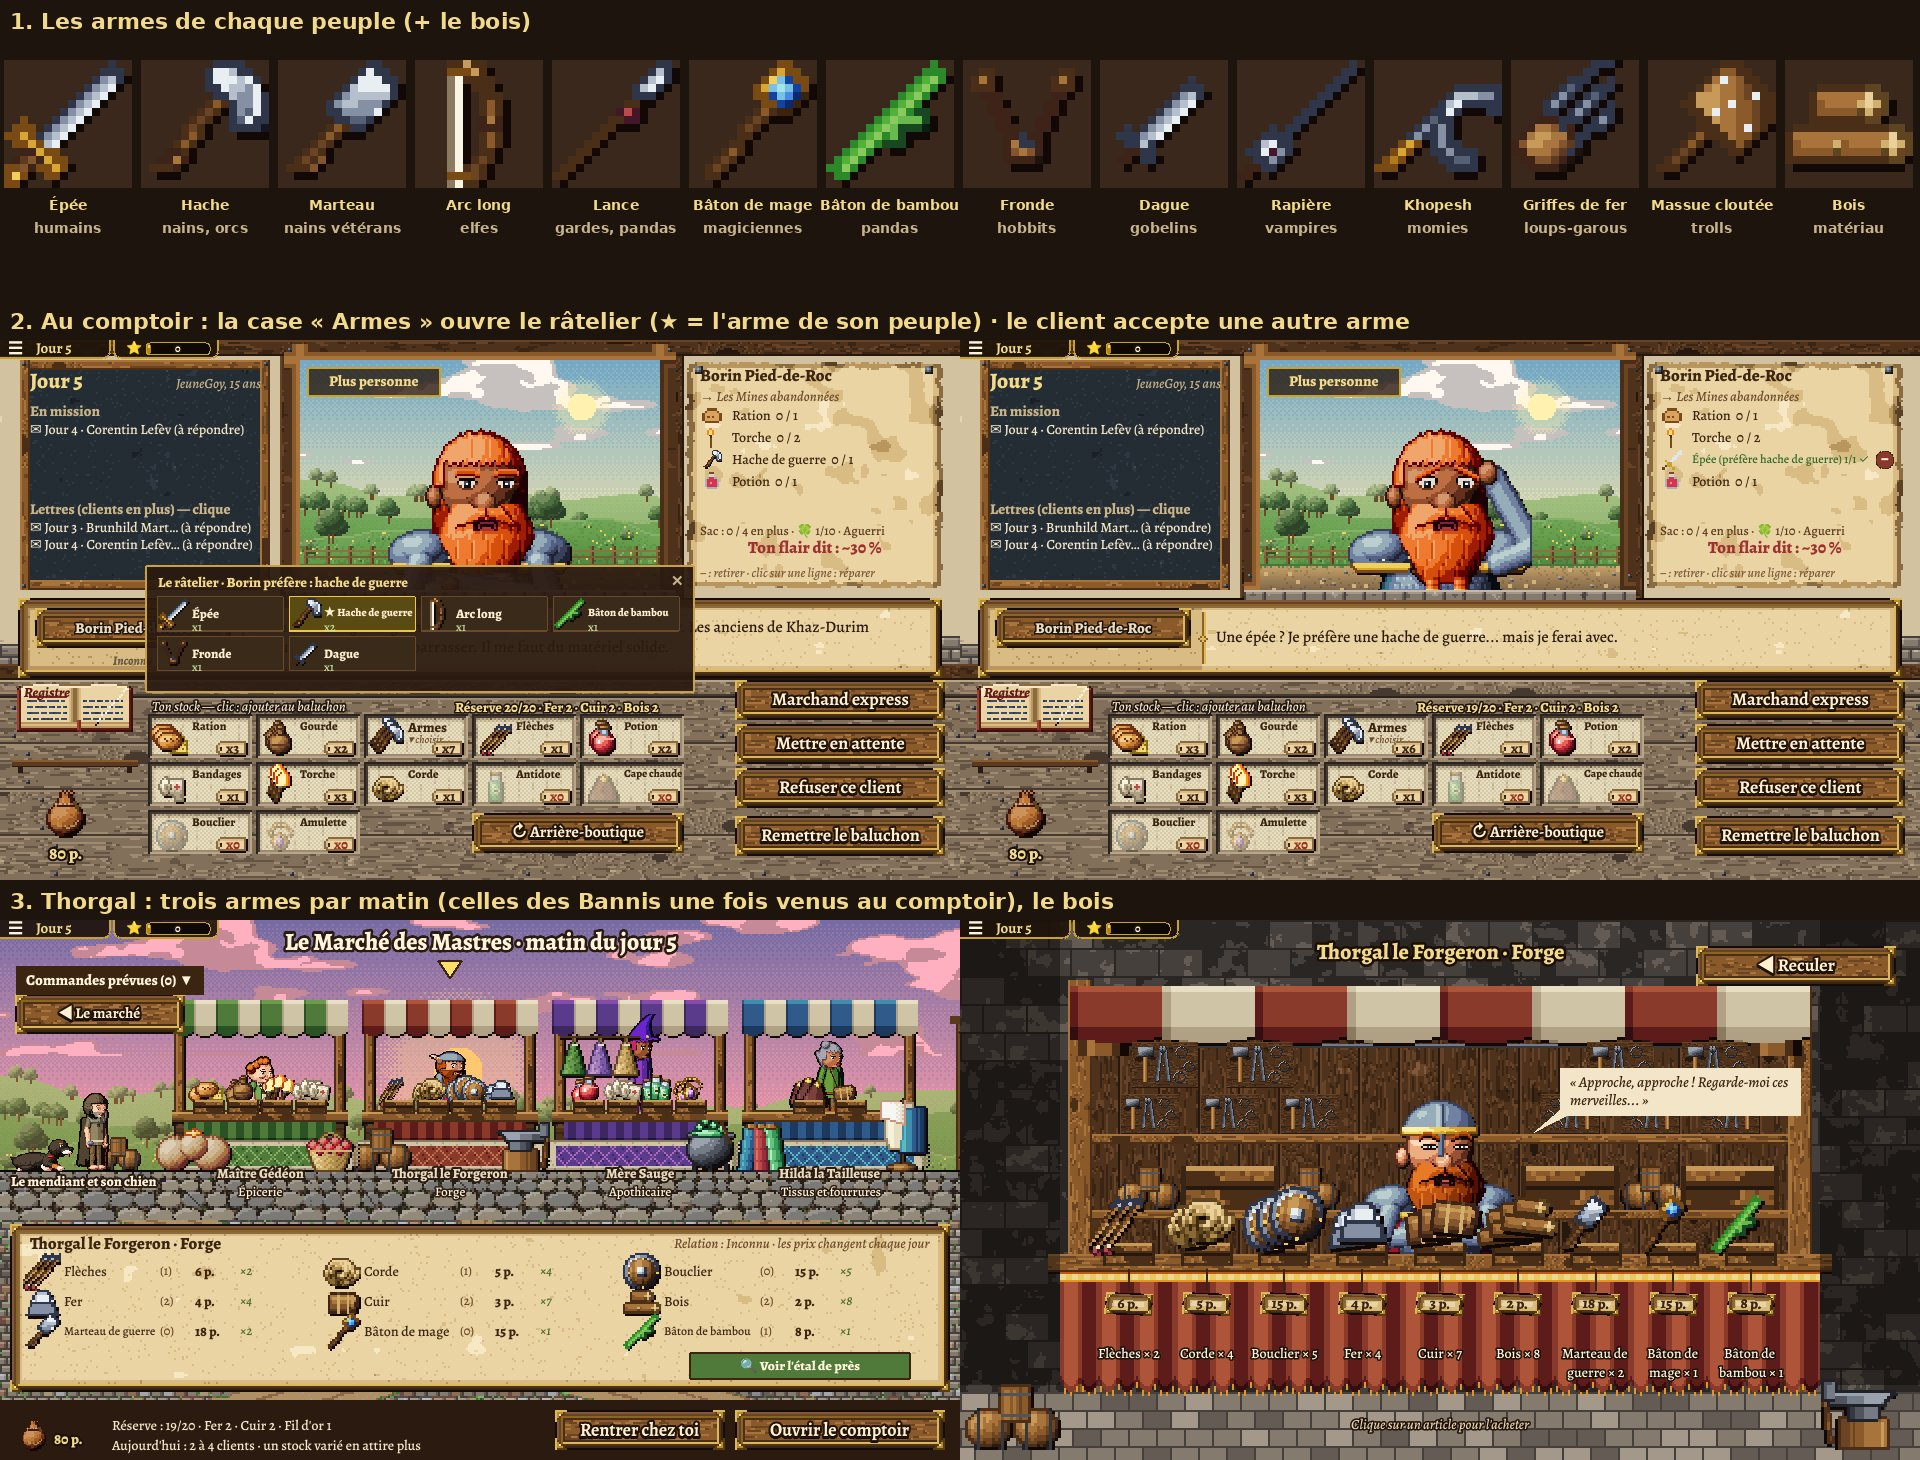
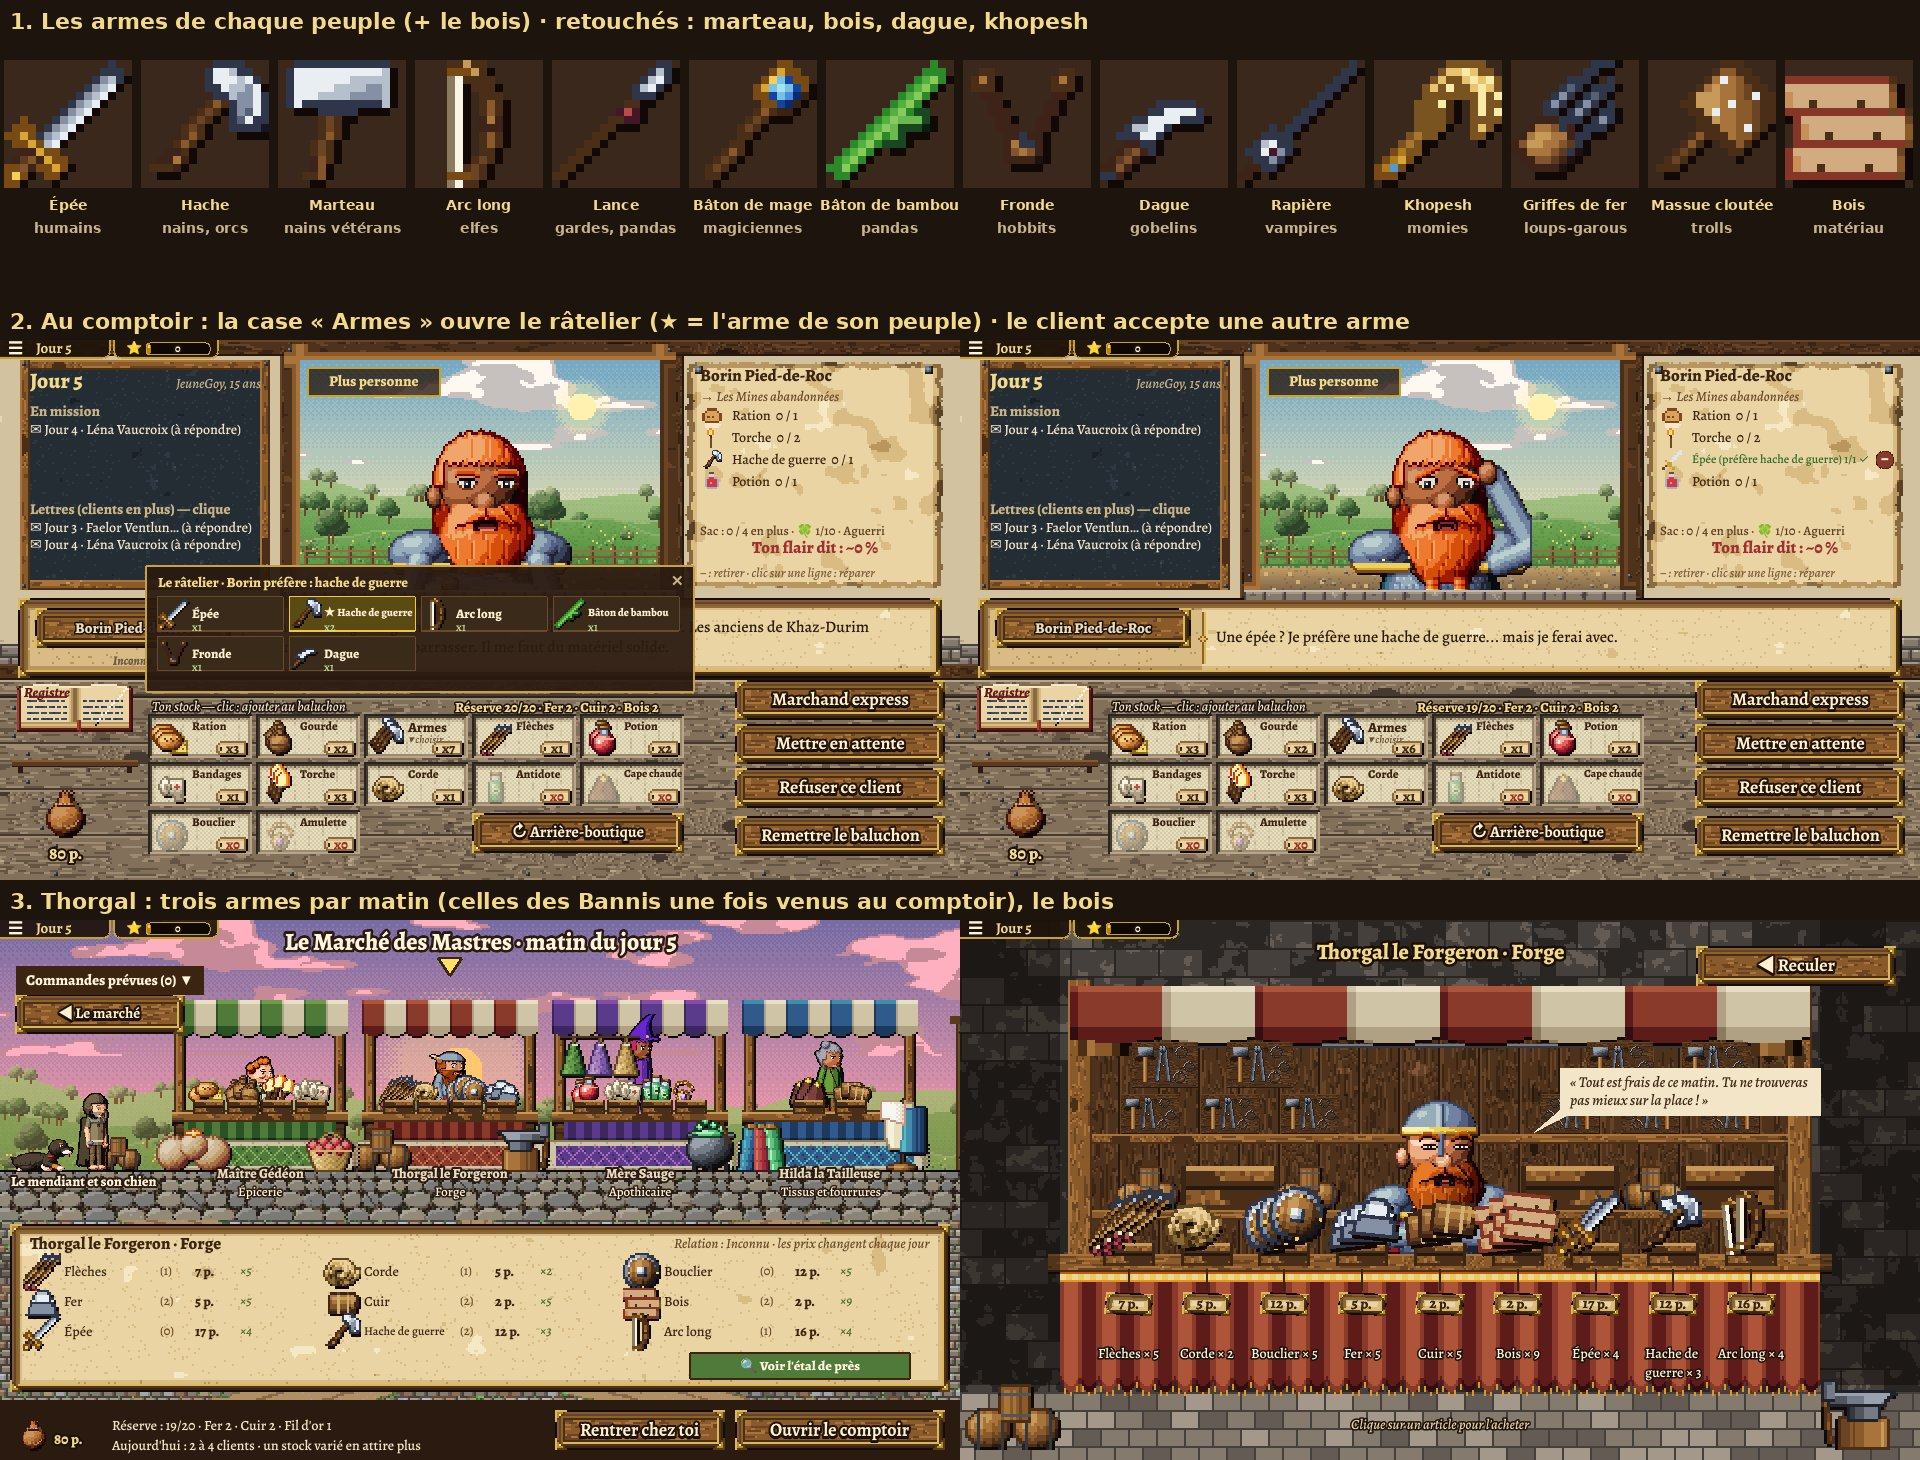
10a retouches validées : marteau en T, planches de bois, dague crochue, khopesh d'après les épées-faucilles des pharaons (bronze doré, poignée à bandes de lapis)
Claude-Session: https://claude.ai/code/session_018kbaP56NxxNMUzmj9EfKBC

diff --git a/src/objetsHD.js b/src/objetsHD.js
@@ -101,12 +101,13 @@ const DESSINS_OBJETS = {
     for (let x = 2; x <= 14; x++) t.poser(x, 11, 'mure', 2);
   },
   // --- (v0.63) Les armes de chaque peuple, et le bois ---
-  // Trois bûches de bois empilées, leurs cernes au bout
+  // Trois planches de bois clair empilées, le fil du bois et les cernes au bout
   bois(t) {
-    for (const [x, y] of [[5, 11], [11, 11], [8, 6]]) {
-      t.forme('chene', (px, py) => (Math.abs(py + 0.5 - y) < 2.4 && px >= x - 4 && px <= x + 3 ? [0, (py + 0.5 - y) / 3, 0.85] : null));
-      t.forme('chanvre', ellipsoide(x + 3, y, 1.6, 2.3), { decalage: 0.4 });
-      t.poser(x + 3, y, 'chene', 2);
+    t.rampes.planche = rampe(0xc89058);
+    for (const [y, dx] of [[12, 0], [8, 1], [4, -1]]) {
+      t.forme('planche', (x, py) => (py >= y - 1 && py <= y + 2 && x >= 1 + dx && x <= 14 + dx ? [0, (py - y) / 3 - 0.3, 0.85] : null), { motif: (x, py) => (py === y && x % 5 !== 0 ? -0.6 : 0) });
+      for (let k = 0; k < 4; k++) t.poser(14 + dx, y - 1 + k, 'chene', k === 0 || k === 3 ? 2 : 3);   // le bout, plus sombre
+      t.poser(4 + dx, y + 1, 'chene', 1); t.poser(10 + dx, y + 1, 'chene', 1);                     // des nœuds
     }
   },
   // La hache de guerre : manche de bois, large fer en croissant
@@ -116,12 +117,16 @@ const DESSINS_OBJETS = {
     for (let k = 0; k < 6; k++) t.poser(13 + Math.round(Math.sin(k / 5 * Math.PI) * 1), 2 + k, 'metal', 5);
     t.forme('cuir', ellipsoide(4.5, 12.5, 1.3, 1.3));
   },
-  // Le marteau de guerre des nains : tête carrée, manche gainé
+  // Le marteau de guerre des nains : une lourde tête carrée en travers du manche, ses faces de frappe
+  // Le marteau de guerre des nains : un manche droit gainé de cuir, une lourde tête de fer posée en
+  // travers (un T), ses deux faces de frappe plus claires et une bague sous la tête
   marteau(t) {
-    trait(t, 'chene', 3, 14, 10, 6, 0.8);
-    t.forme('metal', (x, y) => { const u = (x + 0.5 - 11) * 0.707 + (y + 0.5 - 5) * 0.707, v = -(x + 0.5 - 11) * 0.707 + (y + 0.5 - 5) * 0.707; return Math.abs(u) < 2.4 && Math.abs(v) < 4.2 ? [u / 3, v / 5, 0.85] : null; }, { decalage: 0.2 });
-    t.poser(10, 3, 'metal', 5); t.poser(12, 6, 'metal', 5);
-    for (const k of [0, 1]) t.poser(4 + k, 13 - k, 'cuir', 3);
+    trait(t, 'chene', 5, 15, 8, 5, 0.9);
+    for (const k of [0, 1, 2]) t.poser(5, 14 - k, 'cuir', 3);
+    t.forme('metal', (x, y) => (x >= 2 && x <= 13 && y >= 1 && y <= 5 ? [(x - 7.5) / 7, (y - 3) / 4 - 0.2, 0.85] : null), { decalage: 0.2 });
+    for (let y = 1; y <= 5; y++) { t.poser(2, y, 'metal', 5); t.poser(13, y, 'metal', 4); }
+    for (let x = 3; x <= 12; x++) t.poser(x, 1, 'metal', 5);
+    t.forme('metal', ellipsoide(8, 6.5, 1.6, 1), { decalage: -0.3 });
   },
   // L'arc long des elfes, sa corde tendue
   arc(t) {
@@ -160,12 +165,16 @@ const DESSINS_OBJETS = {
     t.forme('metal', ellipsoide(8, 10.5, 1.2, 1.1), { decalage: -0.4 });
     t.forme('chene', ellipsoide(3, 3, 1, 1)); t.forme('chene', ellipsoide(13, 3, 1, 1));
   },
-  // La dague : courte lame, garde simple
+  // La dague crochue des gobelins : une lame qui monte puis se recourbe comme un croc
   dague(t) {
-    trait(t, 'metal', 5, 11, 12, 4, 1, { decalage: 0.6 });
-    for (let k = 0; k < 5; k++) t.poser(7 + k, 9 - k, 'metal', 5);
-    trait(t, 'metal', 3, 9, 7, 13, 0.6, { decalage: -0.2 });
-    trait(t, 'cuir', 3, 13, 5, 11, 0.7);
+    for (let k = 0; k <= 20; k++) {
+      const u = k / 20, x = 5.5 + 8 * u, y = 10 - 9.5 * u + 7.5 * u * u, r = 1.5 * (1 - u) + 0.35;
+      t.forme('metal', ellipsoide(x, y, r, r), { decalage: 0.4 });
+    }
+    for (let k = 0; k <= 14; k++) { const u = k / 20; t.poser(Math.round(5.5 + 8 * u - 0.6), Math.round(10 - 9.5 * u + 7.5 * u * u - 0.6), 'metal', 5); }   // le fil
+    trait(t, 'metal', 3, 9, 7, 12, 0.6, { decalage: -0.2 });   // la garde
+    trait(t, 'cuir', 2, 14, 5, 11, 0.8);
+    t.forme('metal', ellipsoide(1.6, 14.6, 0.9, 0.9), { decalage: 0.3 });
   },
   // La rapière des vampires : lame fine et longue, coquille d'argent, rubis
   rapiere(t) {
@@ -174,11 +183,17 @@ const DESSINS_OBJETS = {
     t.forme('tissuRouge', ellipsoide(4.5, 11.5, 0.9, 0.9), { decalage: 0.6 });
     trait(t, 'cuir', 1, 15, 3, 13, 0.6);
   },
-  // Le khopesh des momies : la lame en faucille, le manche doré
+  // Le khopesh des momies, l'épée-faucille des pharaons : une poignée droite dorée à bandes, un
+  // Le khopesh des momies, l'épée-faucille des pharaons : poignée dorée à bandes de lapis, un col
+  // droit, puis une large lame de bronze qui se recourbe vers l'avant (le fil sur le dos de la courbe)
   khopesh(t) {
-    t.forme('metal', (x, y) => { const d = Math.hypot(x + 0.5 - 13, y + 0.5 - 9); return d > 3.2 && d < 5.4 && (y < 9 || x < 13) && x >= 8 ? [(x - 12) / 5, (y - 6) / 5, 0.85] : null; }, { decalage: 0.3 });
-    trait(t, 'metal', 5, 10, 9, 7, 0.8, { decalage: 0.2 });
-    trait(t, 'or', 2, 14, 5, 10, 0.8);
+    t.rampes.bronze = [0x4a3010, 0x7a5420, 0xa8782e, 0xd0a048, 0xe8c470, 0xfaeaa8]; t.rampes.lapis = rampe(0x2a5ac8);
+    trait(t, 'or', 1.5, 14.5, 4.5, 11.5, 0.9);
+    t.poser(2, 13, 'lapis', 4); t.poser(4, 11, 'lapis', 4);
+    trait(t, 'bronze', 4.5, 11.5, 7.5, 8, 0.8, { decalage: 0.2 });   // le col droit
+    const pts = [[7.5, 8], [8.2, 5.5], [9.6, 3.4], [11.6, 2.4], [13.4, 3], [14.4, 4.8], [14.4, 7], [13.6, 8.6]];
+    for (let i = 0; i < pts.length - 1; i++) { const [a, b] = pts[i], [c, d] = pts[i + 1]; const r = i < 5 ? 1.8 : 1.3 - (i - 5) * 0.35; for (let k = 0; k <= 6; k++) { const u = k / 6; t.forme('bronze', ellipsoide(a + (c - a) * u, b + (d - b) * u, r, r), { decalage: 0.35 }); } }
+    for (let i = 1; i < pts.length - 1; i++) t.poser(Math.round(pts[i][0] + (pts[i][0] - 11) * 0.12), Math.round(pts[i][1] - 0.8), 'bronze', 5);   // le fil, sur l'extérieur
   },
   // Les griffes de fer des loups-garous : trois lames courbes sur un gantelet
   griffes(t) {
